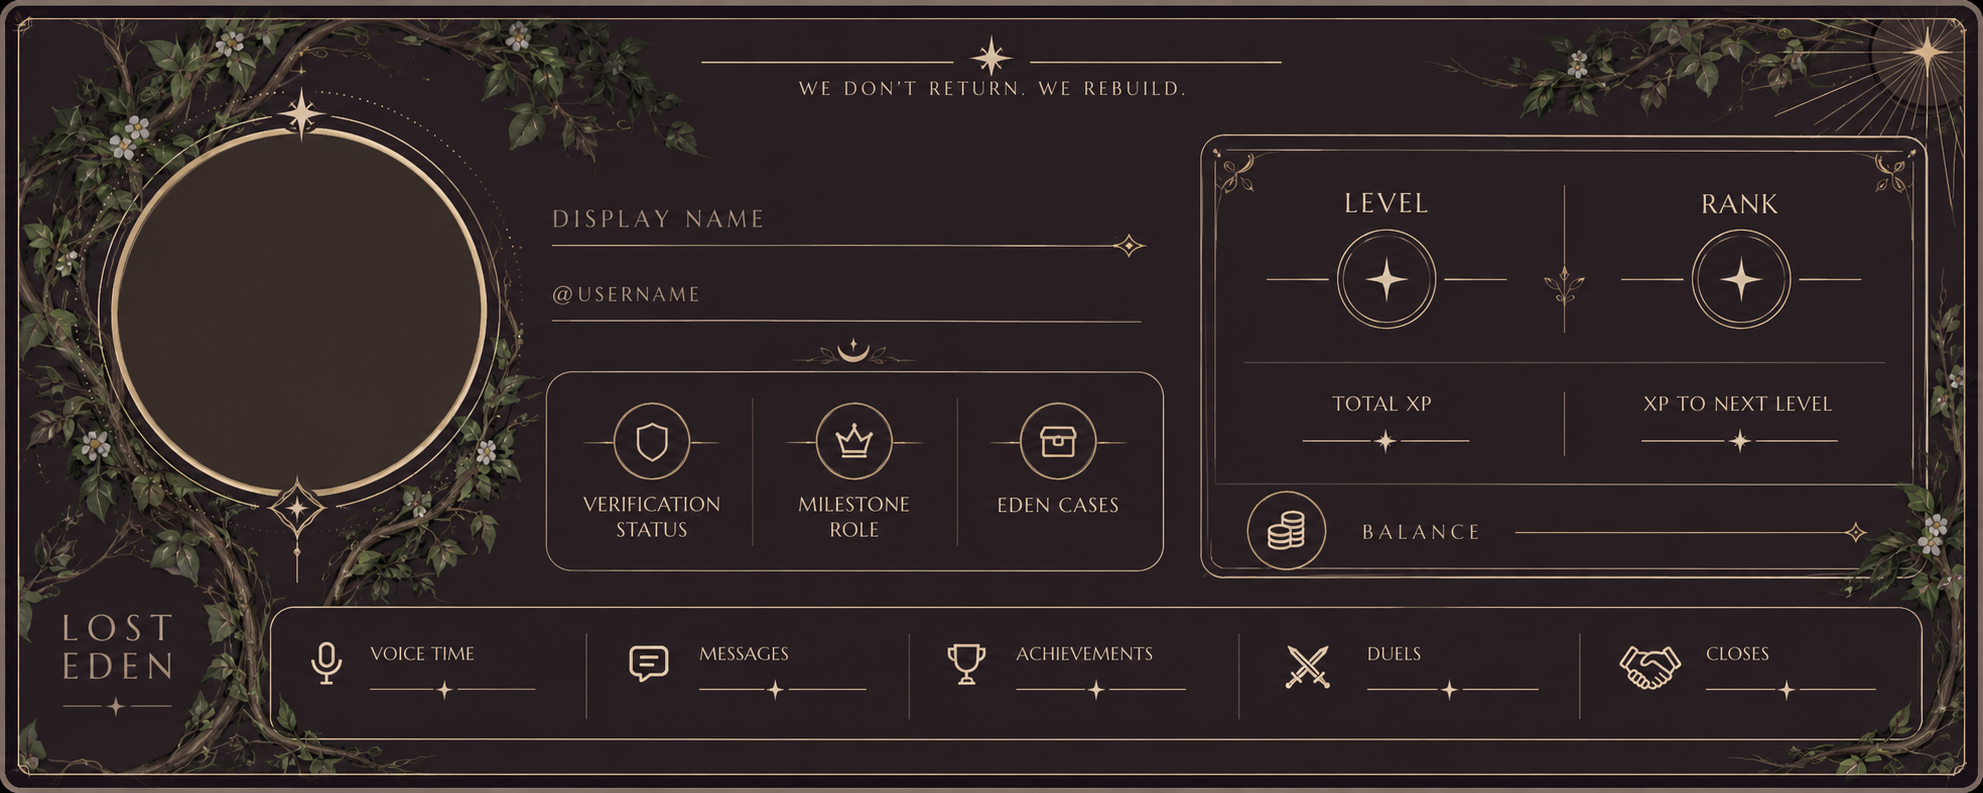
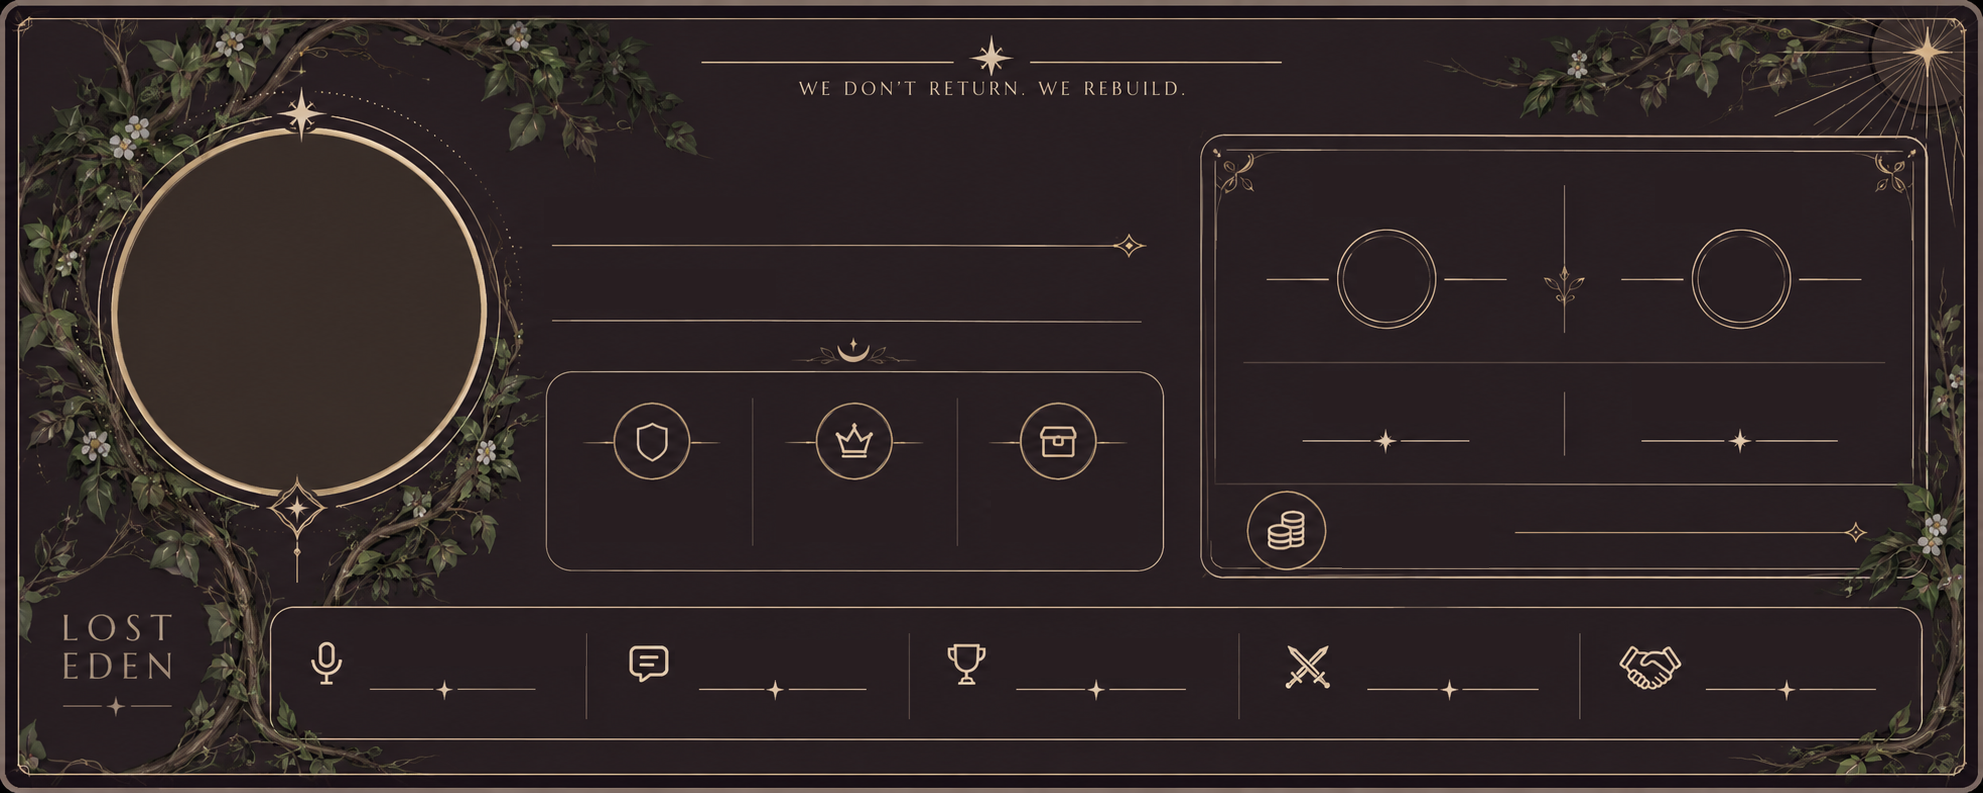
profile-temp-ru

diff --git a/assets/preview_profile.py b/assets/preview_profile.py
@@ -22,7 +22,7 @@ from utils.profile_card_v2 import (
 
 
 AVATAR_PATH = ASSETS_DIR / "preview_avatar.png"
-OUTPUT_PATH = PROJECT_ROOT / "preview_template.png"
+OUTPUT_PATH = PROJECT_ROOT / "temp.png"
 
 
 class PreviewAvatar:
